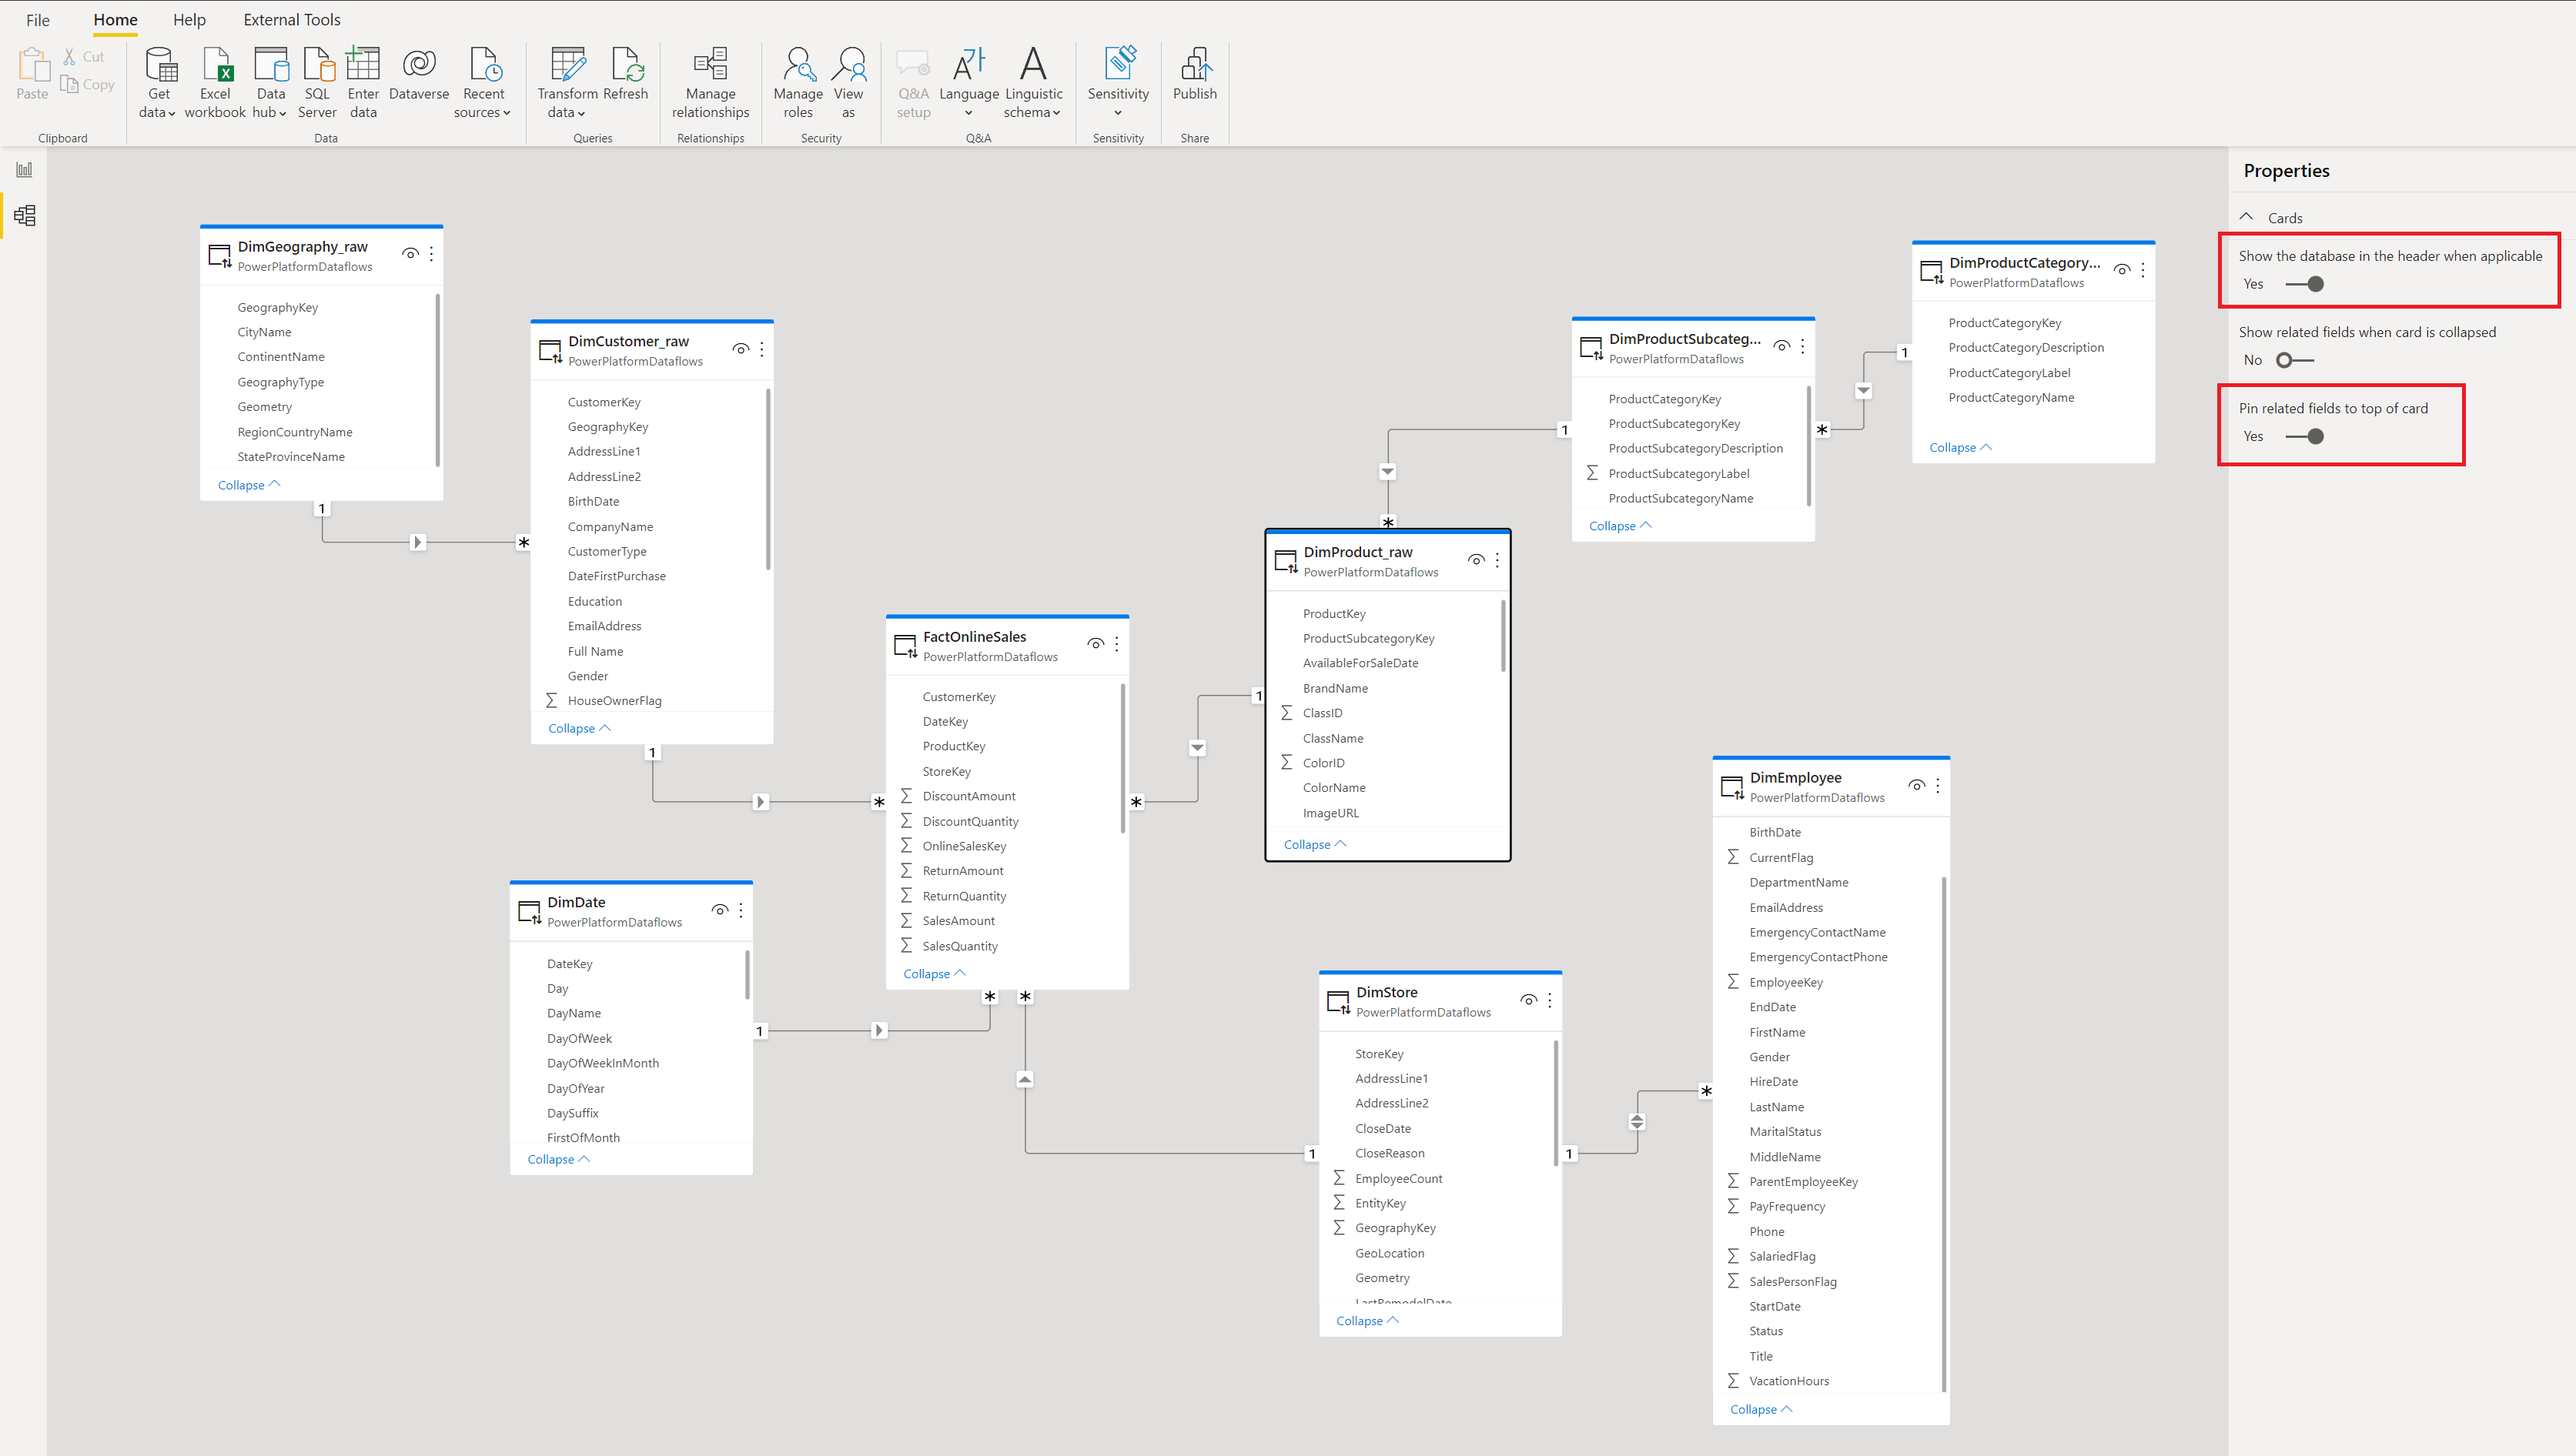
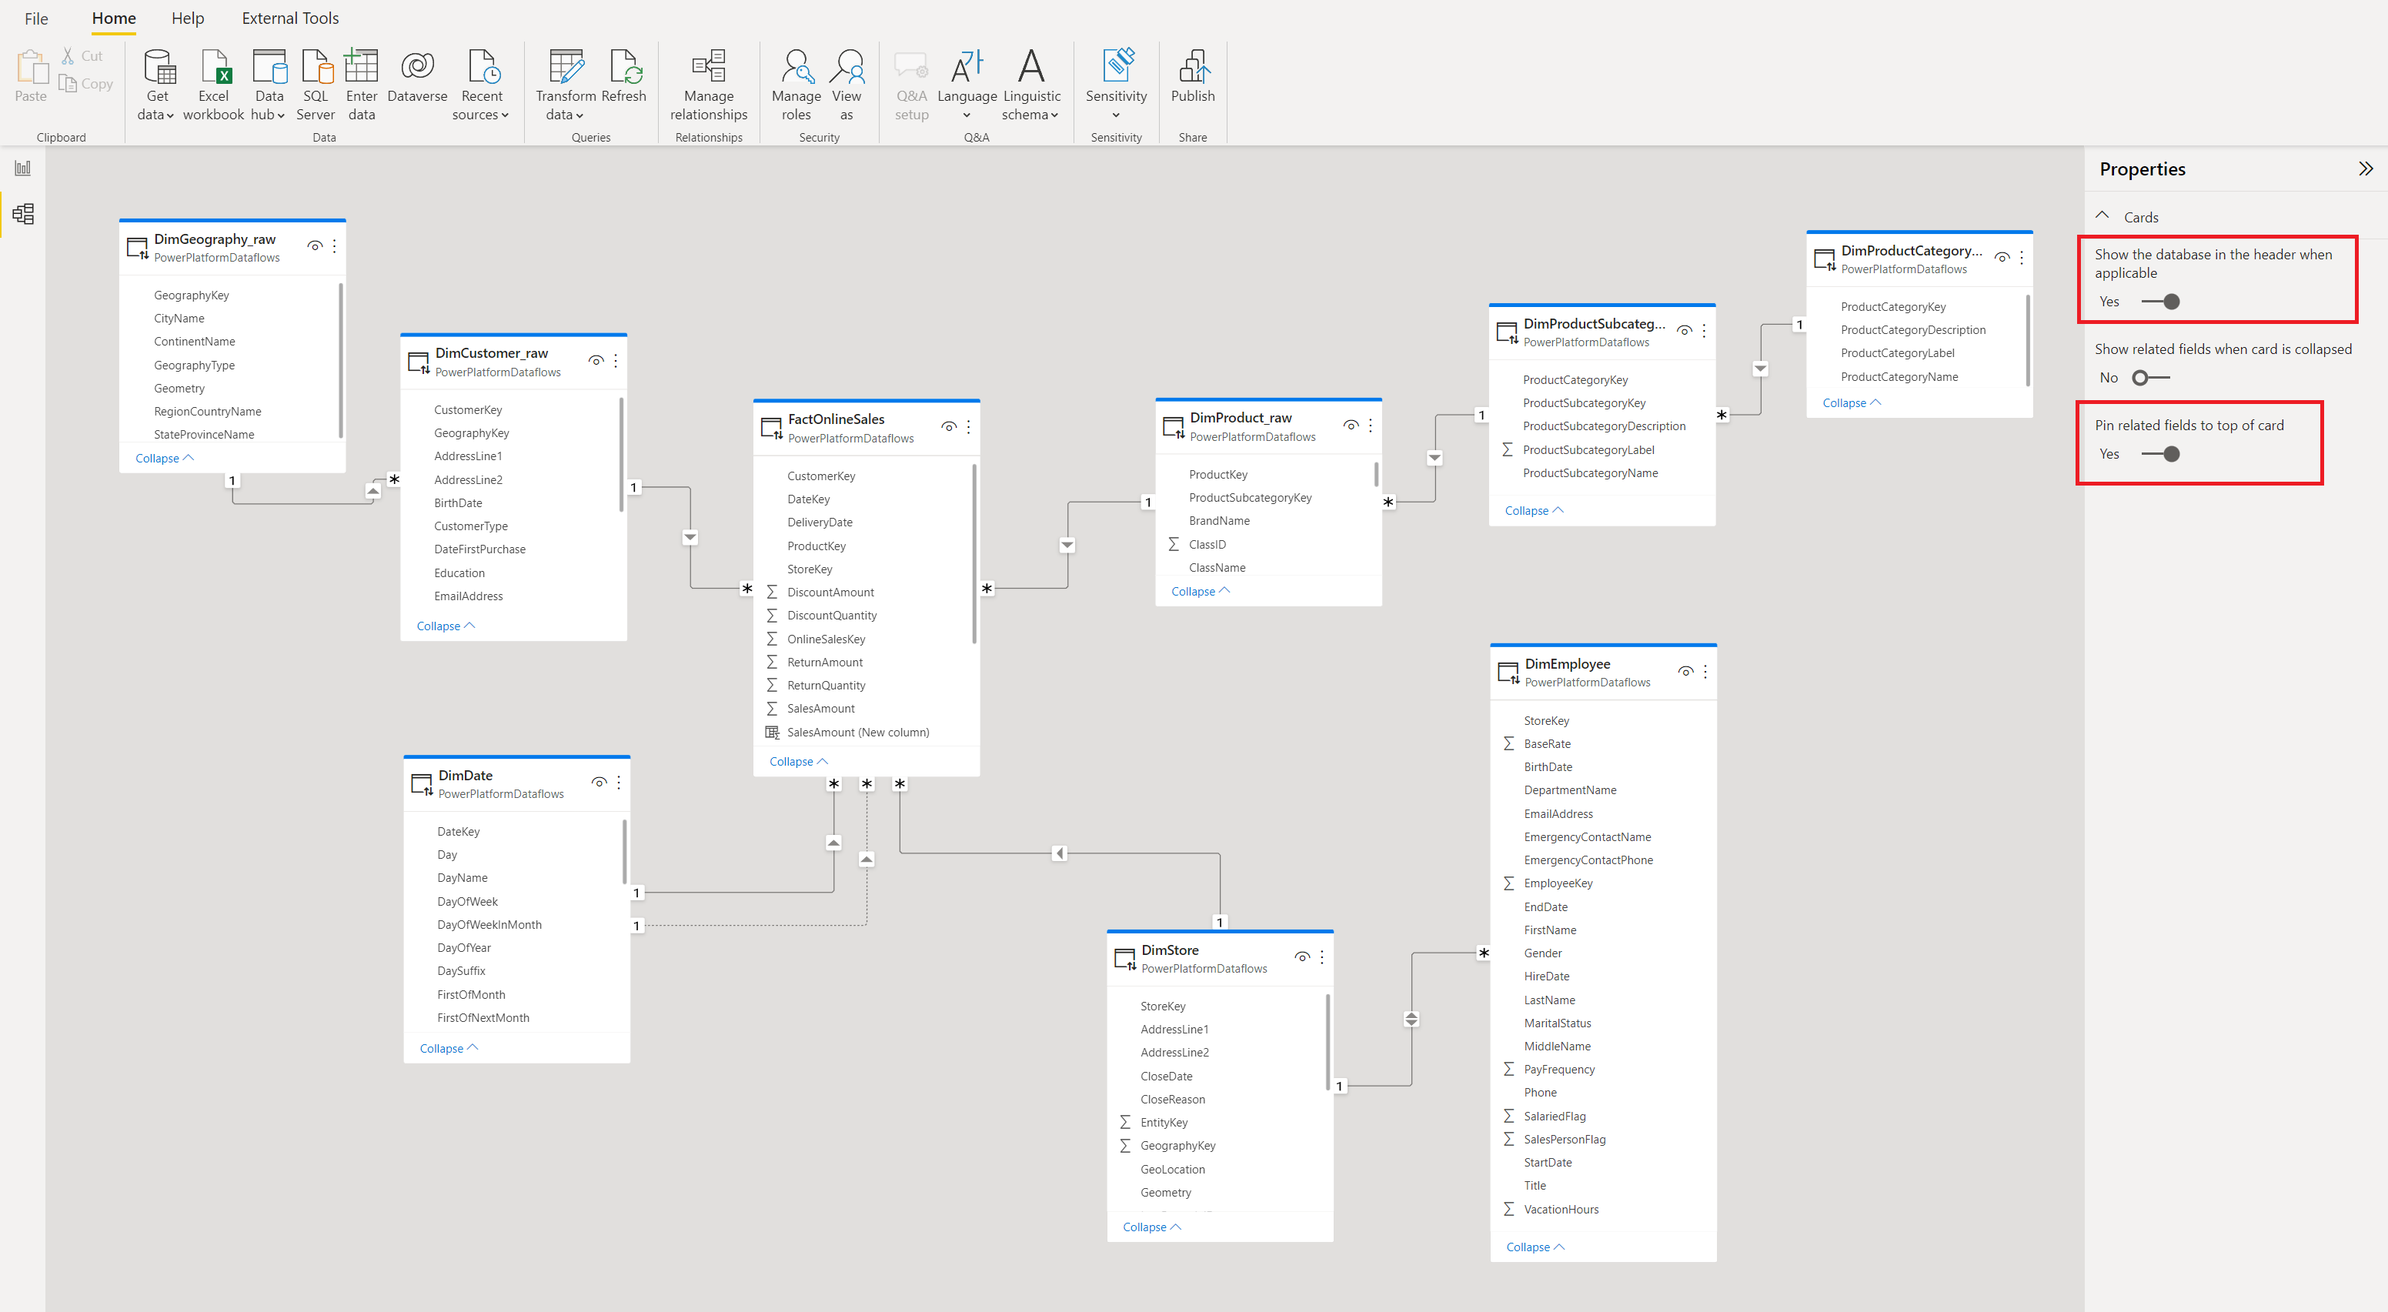
Updated relationship image and table

Changed region(s): [[0.0, 0.0, 1.0, 0.715], [0.4641, 0.4663, 0.7734, 0.9947], [0.1547, 0.5595, 0.3094, 0.8082]]

diff --git a/Day After Dashboard in a Day/DataModeling.md b/Day After Dashboard in a Day/DataModeling.md
@@ -240,14 +240,14 @@ Learn more about [creating and managing relationships](https://docs.microsoft.co
     | Active | From: Table (field) | field | Cardinality | Assume referential integrity | Cross filter direction | 
     | :----- |:----- | :------ | :----- | :----- | :----- |
     | ☑ | DimCustomer_raw (GeographyKey) | DimGeography_raw (GeographyKey) | Many to one (*:1) | ☑ | Single |
-    | ☑ | DimEmployee (SalesTerritoryKey) | DimSalesTerritory (SalesTerritoryKey) | Many to one (*:1) | ☑ | Both |
+    | ☑ | DimEmployee (StoreKey) | DimStore (StoreKey) | Many to one (*:1) | ☑ | Both |
     | ☑ | DimProduct_raw (ProductSubcategoryKey) | DimProductSubcategory_raw (ProductSubcategoryKey) | Many to one (*:1) |  | Single |
     | ☑ | DimProductSubcategory_raw (ProductCategoryKey) | DimProductCategory_raw (ProductCategoryKey) | Many to one (*:1) | ☑ | Single |
     | ☑ | FactOnlineSales (CustomerKey) | DimCustomer_raw (CustomerKey) | Many to one (*:1) | ☑ | Single |
     | ☑ | FactOnlineSales (ProductKey) | DimProduct_raw (ProductKey) | Many to one (*:1) | ☑ | Single |
-    | ☑ | FactOnlineSales (SalesTerritoryKey) | DimSalesTerritory (SalesTerritoryKey) | Many to one (*:1) | ☑ | Single |
-    | ☑ | FactOnlineSales (OrderDate) | DimDate (DateKey) | Many to one (*:1) | ☑ | Single |
-    |  | FactOnlineSales (ShipDate) | DimDate (DateKey) | Many to one (*:1) | ☑ | Single |
+    | ☑ | FactOnlineSales (StoreKey) | DimStore (StoreKey) | Many to one (*:1) | ☑ | Single |
+    | ☑ | FactOnlineSales (DateKey) | DimDate (DateKey) | Many to one (*:1) | ☑ | Single |
+    |  | FactOnlineSales (DeliveryDate) | DimDate (DateKey) | Many to one (*:1) | ☑ | Single |
 
 
 1. Within the Modeling view's **Properties** pane, set both the **Show the database in the header when applicable** and **Pin related fields to top of card** options to **Yes**.
